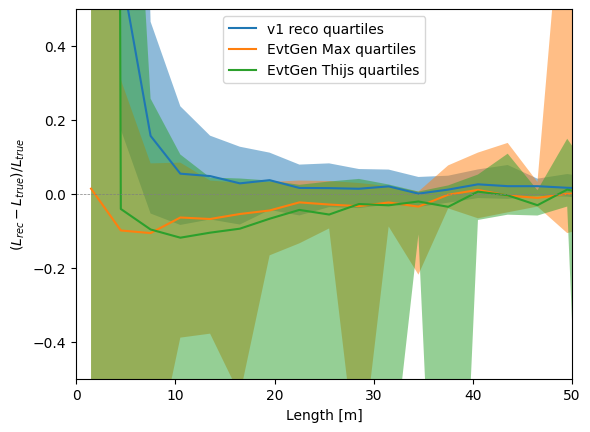
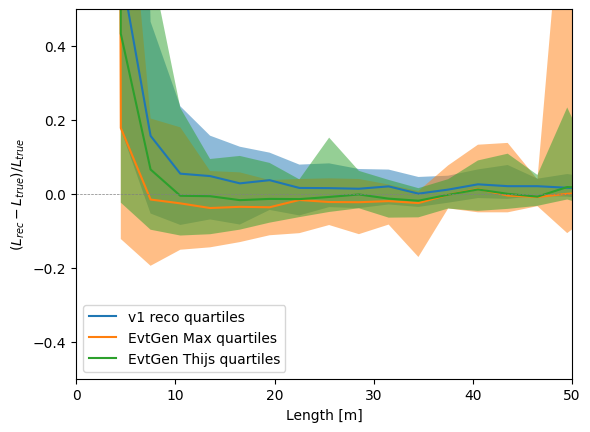
update some plots

diff --git a/performance/compare.py b/performance/compare.py
@@ -42,7 +42,7 @@ def extract_data_evtgen( nufile, key ):
     tf = tables.open_file(nufile)
 
     data = {}
-    data["len_fit"] = tf.get_node( f'/{key}').cols.cascade_cascade_00001_distance[:][slc]
+    data["len_fit"] = np.abs(tf.get_node( f'/{key}').cols.cascade_cascade_00001_distance[:][slc])
     data["len_tru"] = tf.root.cc.cols.length[:][slc]
     data["asm_fit"] = get_easymm_evtgen(tf.get_node(f'/{key}'))[slc]
     data["asm_tru"] = tf.root.cc_easymm[slc]['value']
